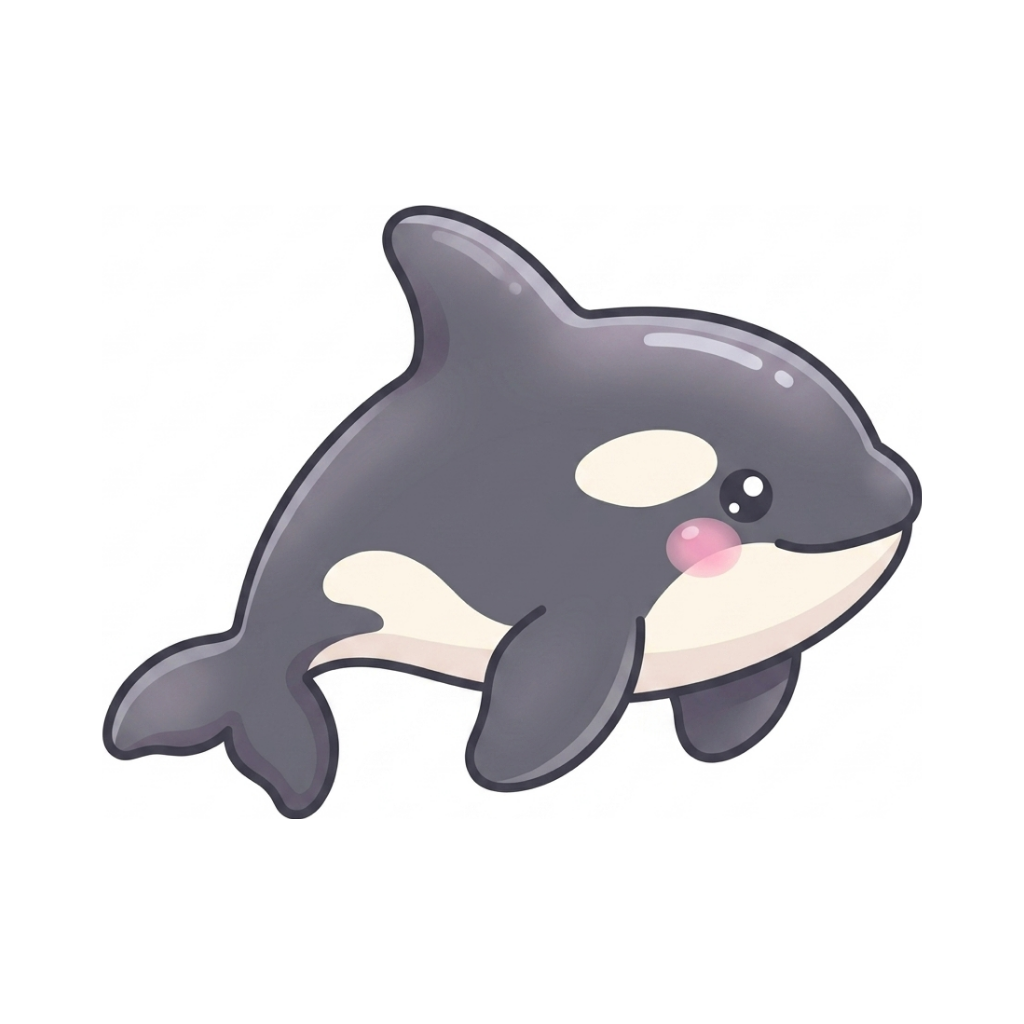
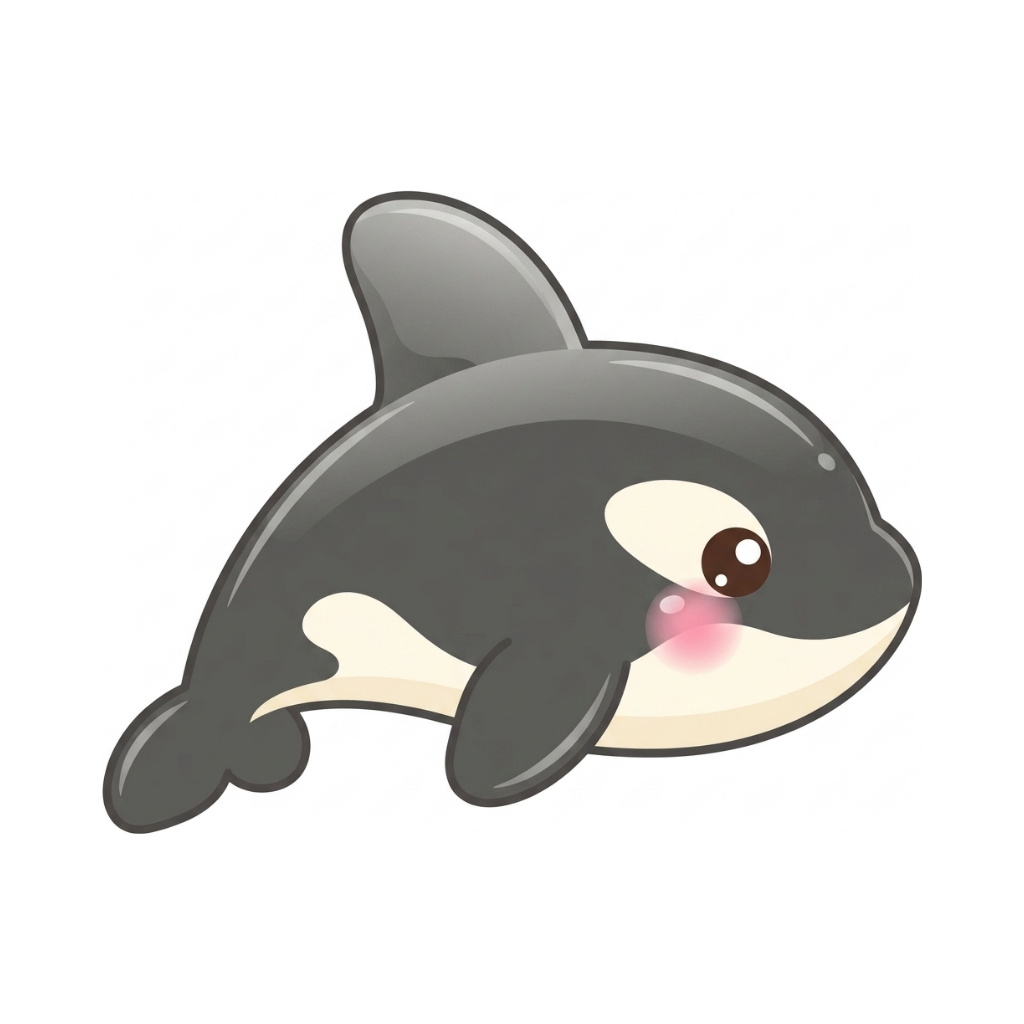
2バッチ目 20体（そら・むし・けもの）と、向きの 直し
ぜんぶで 47体 / 98体。のこり 51体。

**よこ向きは 右むきに 固定した。**index.html の GFX が 正の 数
（＝かおを 右へ ずらす）なので、ゲームの よこ向きは みんな 右むき。
プロンプトに 書かないと 左むきで 出て、1バッチ目で 6体 そうなった。
その6体（カクレクマノミ・イルカ・シャチ・サメ・クジラ・カメ）は
出しなおした。ヤドカリ・アザラシ・ユニコーンは はじめから 右むき
だったので、プロンプトだけ 直して 絵は のこす。
タツノオトシゴは GFX が -0.08 なので 左むきの まま。

費用の 実測: 1枚 約¥11.4（¥456 / 約40枚）。のこり 51体で 約¥580、
やりなおしの 余裕を 見ても 残高 ¥2,544 に おさまる。

  node tools/check-chars.mjs   148体＋42 すべて OK、JSエラー 0
  ばんめん W30・W48 で 9体 とも さしかわっているのを 確認

Claude-Session: https://claude.ai/code/session_01LVTQ3iF4i4m1KwNWYkaw1P

Changed region(s): [[0.0938, 0.1875, 0.9062, 0.8125]]

diff --git a/index.html b/index.html
@@ -7552,7 +7552,7 @@ const genSpriteCache = new Map();
 
 /* さしかえた子の キー。art/sprites/ に ある ファイル名と そろえる。
    ここに ない子は これまでどおり コードで えがく */
-const ART_KEYS = ['bear', 'butterfly', 'clownfish', 'crab', 'daifuku', 'dango', 'dolphin', 'fairy', 'ghost', 'hermit', 'jelly', 'manta', 'octopus', 'orca', 'panda', 'penguin', 'pig', 'rabbit', 'seahorse', 'seal', 'shark', 'sheep', 'starfish', 'turtle', 'unicorn', 'whale', 'youkan'];
+const ART_KEYS = ['bear', 'bee', 'butterfly', 'clownfish', 'crab', 'daifuku', 'dango', 'deer', 'dolphin', 'eagle', 'fairy', 'ghost', 'gull', 'hedgehog', 'hermit', 'horse', 'jelly', 'kangaroo', 'koala', 'ladybug', 'lion', 'manta', 'monkey', 'mouse', 'octopus', 'orca', 'owl', 'panda', 'penguin', 'pig', 'rabbit', 'redpanda', 'seahorse', 'seal', 'shark', 'sheep', 'sloth', 'squirrel', 'starfish', 'swan', 'tiger', 'turtle', 'unicorn', 'whale', 'wolf', 'youkan', 'zebra'];
 
 /* 絵を よみこむ。読めた時点で ためた 絵を すてる。
    すてないと、読みおわる 前に えがいた「コードの 絵」が のこって
